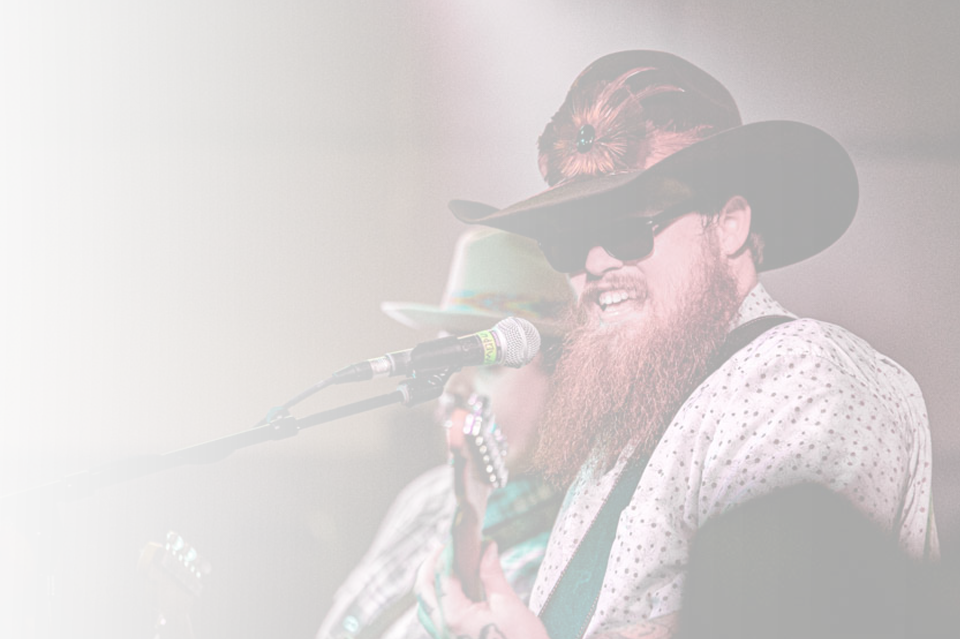
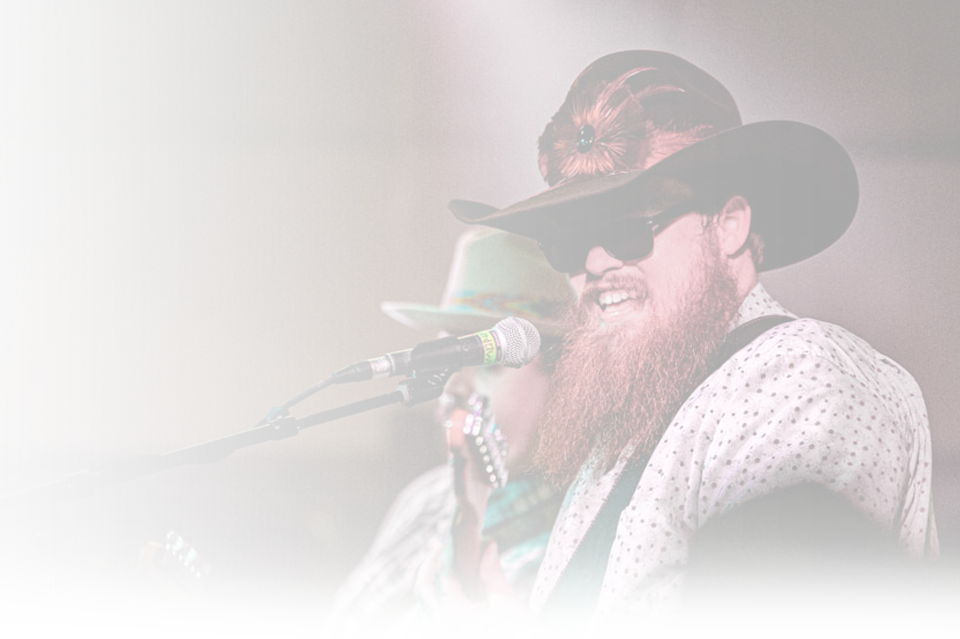
updates

Changed region(s): [[0.1562, 0.8326, 1.0, 1.0]]

diff --git a/index.html b/index.html
@@ -1,24 +1,36 @@
 <!DOCTYPE html>
 <html lang="en">
 
-<div class="container">
+    <div class="container">
     <head>
         <meta charset="UTF-8">
         <meta name="viewport" content="width=device-width,initial-scale=1">
-        <title>Title</title>
+        <title>Everlasting Lover</title>
         <link rel="stylesheet" href="image-style.css">
     </head>
     <body>
+         <div class="container-section-six">
 
-
-        <div class="container section-one">
+        <div class="container-section-one">
             <h2>Everlasting Lover</h2>
             </div>
 
+         
+            <div class="container-section-five">
+                <a href="http://www.google.com"> <div class="a1"> </div> </a>
+                <a href="https://www.youtube.com/watch?v=Qf9-AFVYG5g"> <div class="a2"> </div> </a>
+            </div>
 
-        <div class="container section-two">
+    
+          </div>
+
+
+         <div class="container-section-two">
+            <a href="https://wleto12.github.io/49-Winchester/">By: 49 Winchester</a>
+        </div>
+
+        <div class="container-section-three">
             <p> 
-                <element style="font-size: 50px; color: #C49149;">By: 49 Winchester </element>
                 <br>
                 <br>
                 <br>
@@ -31,11 +43,13 @@
                 <element style="color: #C49149;">Honey it ain't that I want to</element> <br>
                 <element style="color: tan;">But sometimes the pain takes over </element><br>
                 <element style="color: #C49149;">And I'll just slip through</element> <br>
+                <br>
                 <element style="color: tan;">When I get stoned & I feel rejected </element><br>
                 <element style="color: #C49149;">Weary from the road & half beaten down </element><br>
                 <element style="color: tan;">You come off of your throne & I feel protected </element><br>
                 <element style="color: #C49149;">And even from the bottom of the bottle </element><br>
                 <element style="color: tan;"> I know you won't let me drown </element><br>
+                <br>
                 <element style="color: #C49149;">Everlasting lover </element><br>
                 <element style="color: tan;">I owe you my gratitude </element><br>
                 <element style="color: #C49149;">You were the first to make me feel </element><br>
@@ -44,6 +58,7 @@
                 <element style="color: tan;">Baby you got the kindest eyes </element><br>
                 <element style="color: #C49149;">And when mine are red & I look half dead </element><br>
                 <element style="color: tan;">You can't even realize </element><br>
+                <br>
                 <element style="color: #C49149;">When I get stoned & I feel rejected </element><br>
                 <element style="color: tan;">Weary from the road & half beaten down </element><br>
                 <element style="color: #C49149;">You come off of your throne & I feel protected </element><br>
@@ -52,14 +67,16 @@
                 <element style="color: tan;">And even from the bottom of the bottle </element><br>
                 <element style="color: #C49149;">I know you won't let </element><br>
                 <element style="color: tan;">You won't let me </element><br>
-                <element style="color: #C49149;">You won't let me drown </element></p>
+                <element style="color: #C49149;">You won't let me drown </element> </p>
             </div>
 
-        <div class="container section-three">
+        <div class="container-section-four">
                 <p> Written By: Isaac Blaine Gibson (Pictured) </p>
         </div>
 
-
+        </div>
+        
+        </div>
 
     </body>
 

diff --git a/image-style.css b/image-style.css
@@ -1,58 +1,236 @@
  body {
  	background-image: url(49-Winchester1.png);
  	background-repeat: no-repeat;
- 	background-size: cover;
+ 	background-size: 100%;
  	background-attachment: fixed;
  	background-color: #4D2E20;
 
  }
 
-.container1 {
-
-background-color: indianred;
-
-
-}
-
-
 .container {
 	margin-left: 25px;
 	font-family: Verdana;
+	display: flex;
+	justify-content: left;
+	text-align: left;
+	flex-direction: column;
+	line-height: 75px;
+
+}
+
+.container-section-six {
+	display: flex;
+	justify-content: space-between;
+	align-items: flex-end;
+	flex-direction: row;
+	margin-left: 0px;
 
 
 
 }
 
-.section-one {
+
+
+.container-section-one {
 	color: tan;
 	font-size: 75px;
-	line-height: 10px;
-	display: flex;
-	justify-content: left;
-	text-align: left;
-	hieght: 200px;
-	
+	height: 175px;
 
 }
 
+.container-section-two {
 
-.section-two {
+	font-size: 50px;
+	width: 500px;
+	color: #C49149;
+	line-height: 200px;
+	filter: opacity(100%);
+	height: .001px;
+
+}
+
+.container-section-two:hover {
+	color: #E6BC7E;
+	text-decoration: underline;
+
+}
+
+a {
+	color: #C49149;
+	text-decoration: none;
+}
+
+a:hover { 
+	color: #E6BC7E;
+	text-decoration: underline;
+ }
+
+
+
+.container-section-three {
 	font-size: 30px;
-	line-height: 75px;
+
+}
+
+
+
+.container-section-four {
+	color: tan;
+	font-size: 15px;
+	margin-bottom: 75px;
+	line-height: 30px;
+
+
+}
+
+
+
+
+.container-section-five {
+	margin-top: 15px;
 	display: flex;
-	justify-content: left;
-	text-align: left;
-	hieght: 200px;
-	margin-bottom: 50px;
+	justify-content: flex-end;
+	align-items: center;
+	flex-direction: row;
+	filter: opacity(100%);
+	gap: 10px;
+	margin-right: 50px;
+
 	
 
-}
-
-.section-three {
-	color: tan;
-	margin-bottom: 80px;
-	font-size: 15px;
-
-
 
 }
+
+.a1 {
+	background-image: url(Asset2copy.svg);
+	background-repeat: no-repeat;
+	height: 50px;
+	width: 100px;
+
+	
+
+
+}
+
+.a2 {
+	background-image: url(Asset3copy.svg);
+	background-repeat: no-repeat;
+	height: 50px;
+	width: 100px;
+
+}
+
+.a1:hover {
+
+	
+	height: 55px;
+	width: 105px;
+}
+.a2:hover {
+
+
+	height: 55px;
+	width: 105px;
+}
+
+@media screen and (max-width: 1065px) {
+
+	.container {
+		line-height: 50px;
+	}
+
+	.container-section-one {
+		font-size: 35px;
+		height: 90px;
+
+
+	}
+	
+	.container-section-two {
+		font-size: 25px;
+	}
+
+	.container-section-four {
+		font-size: 15px
+
+	}
+
+	.container-section-three {
+		font-size: 20px
+
+	}
+
+	.a1 {
+	height: 35px;
+	width: 65px;
+	}	
+
+	.a2 {
+	height: 35px;
+	width: 65px;
+	}
+
+
+
+
+
+}
+
+
+
+
+
+
+@media screen and (max-width: 585px) {
+
+	.container {
+		
+		
+	}
+
+	.container-section-one {
+		font-size: 20px;
+		height: 60px;
+		
+	
+
+
+
+	}
+	
+	.container-section-four {
+		font-size: 10px
+		
+
+	}
+
+	.container-section-three {
+		line-height: 20px;
+		font-size: 10px;
+
+	}
+
+	.container-section-two {
+		font-size: 10px;
+	}
+
+	.container-section-five {
+		margin-right: 0px;
+	}
+
+	.a1 {
+	height: 20px;
+	width: 40px;
+	}	
+
+	.a2 {
+	height: 20px;
+	width: 40px;
+	}
+
+
+
+
+}
+
+
